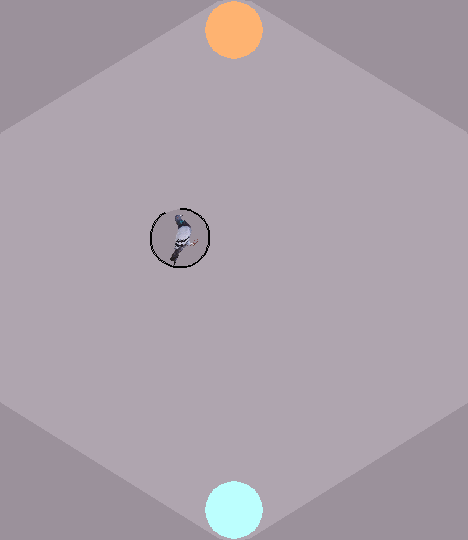
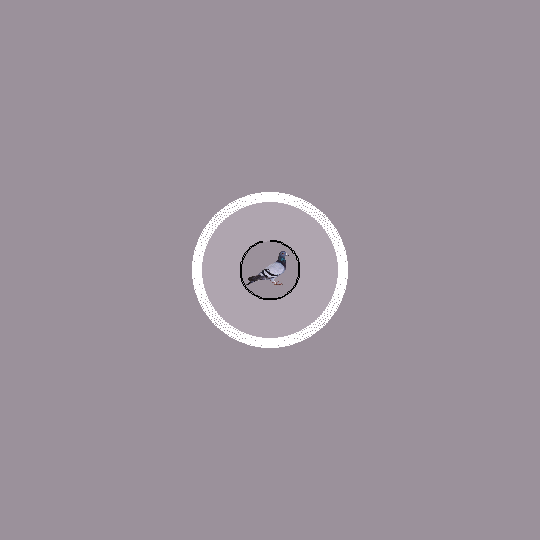
map added

diff --git a/cir/cir_event_effects.py b/cir/cir_event_effects.py
@@ -226,7 +226,7 @@ class GameEffects(object):
         """ EDITOR CLICKS """
 
 
-        # MAP
+        # MAPS
         if item.name == "EDITOR6":
 
             self.grid.capture_room()
@@ -234,7 +234,10 @@ class GameEffects(object):
             if not self.grid.current_room == 999:
                 self.grid.previous_room = self.grid.current_room
                 self.grid.change_room(999)
-                my_body.available = False
+                if my_body in self.grid.items:
+                    self.grid.items.remove(my_body)
+                # my_body.available = False
+                # my_body.clickable = False
 
                 try:
                     for root, dirs, files in os.walk(self.grid.maps_dir):
@@ -242,8 +245,10 @@ class GameEffects(object):
                             img_file = os.path.join(root, file)
                             name = os.path.splitext(file)[0]
                             image = self.grid.pygame.image.load(img_file)
-                            image = self.grid.pygame.transform.scale(image, (
-                            self.grid.tile_radius * 2, self.grid.tile_radius * 2))
+                            image = self.grid.pygame.transform.scale(
+                                image, (
+                                    self.grid.tile_radius * 2,
+                                    self.grid.tile_radius * 2))
                             if name == "1":
                                 pos = self.grid.set_pos("1")
                             elif name == "2":
@@ -264,8 +269,10 @@ class GameEffects(object):
 
             else:
                 self.grid.change_room(self.grid.previous_room)
-                my_body.available = True
-
+                if my_body not in self.grid.items:
+                    self.grid.items.append(my_body)
+                # my_body.available = True
+                # my_body.clickable = True
 
 
 

diff --git a/cir/cir_grid.py b/cir/cir_grid.py
@@ -258,13 +258,22 @@ class Grid(object):
     def capture_room(self):
         """ Takes a screenshot of the current room """
         if not self.current_room == 999:
-            width = (2 * self.tile_radius) + (8 * self.cathetus)
-            height = 18 * self.tile_radius
-            top = self.center_tile[0] - (width / 2)
-            left = self.center_tile[1] - (height / 2)
-            rect = self.pygame.Rect(top, left, width, height)
+            # width = (2 * self.tile_radius) + (8 * self.cathetus)
+            # height = 18 * self.tile_radius
+            # top = self.center_tile[0] - (width / 2)
+            # left = self.center_tile[1] - (height / 2)
+            # rect = self.pygame.Rect(top, left, width, height)
+            # sub = self.game_display.subsurface(rect)
+            # self.pygame.image.save(sub, self.maps_dir + str(self.current_room) + ".png")
+
+            # width = (2 * self.tile_radius) + (8 * self.cathetus)
+            side = 18 * self.tile_radius
+            top = self.center_tile[0] - (side / 2)
+            left = self.center_tile[1] - (side / 2)
+            rect = self.pygame.Rect(top, left, side, side)
             sub = self.game_display.subsurface(rect)
             self.pygame.image.save(sub, self.maps_dir + str(self.current_room) + ".png")
+
 
     def save_current_room(self):
         """ Saves the current room to self.rooms """

diff --git a/cir/cir_draw.py b/cir/cir_draw.py
@@ -182,7 +182,7 @@ class GameDrawer(object):
 
     def draw_aim(self, current_tile, item):
         """ Aim """
-        if item.mode == "echo":
+        if item.mode == "echo" and item.available:
             aim_dir_idx = item.get_aiming_direction(self.grid, current_tile)[1]
             aim_tile = item.get_aiming_direction(self.grid, current_tile)[0]
 

diff --git a/cir/cir_change_vars.py b/cir/cir_change_vars.py
@@ -147,7 +147,7 @@ class VarChanger(object):
         if not self.grid.game_menu:
 
             # My_body to room
-            if not my_body in self.grid.items:
+            if not my_body in self.grid.items and self.grid.current_room not in [999]:
                 self.grid.items.append(my_body)
 
             # Check bag
